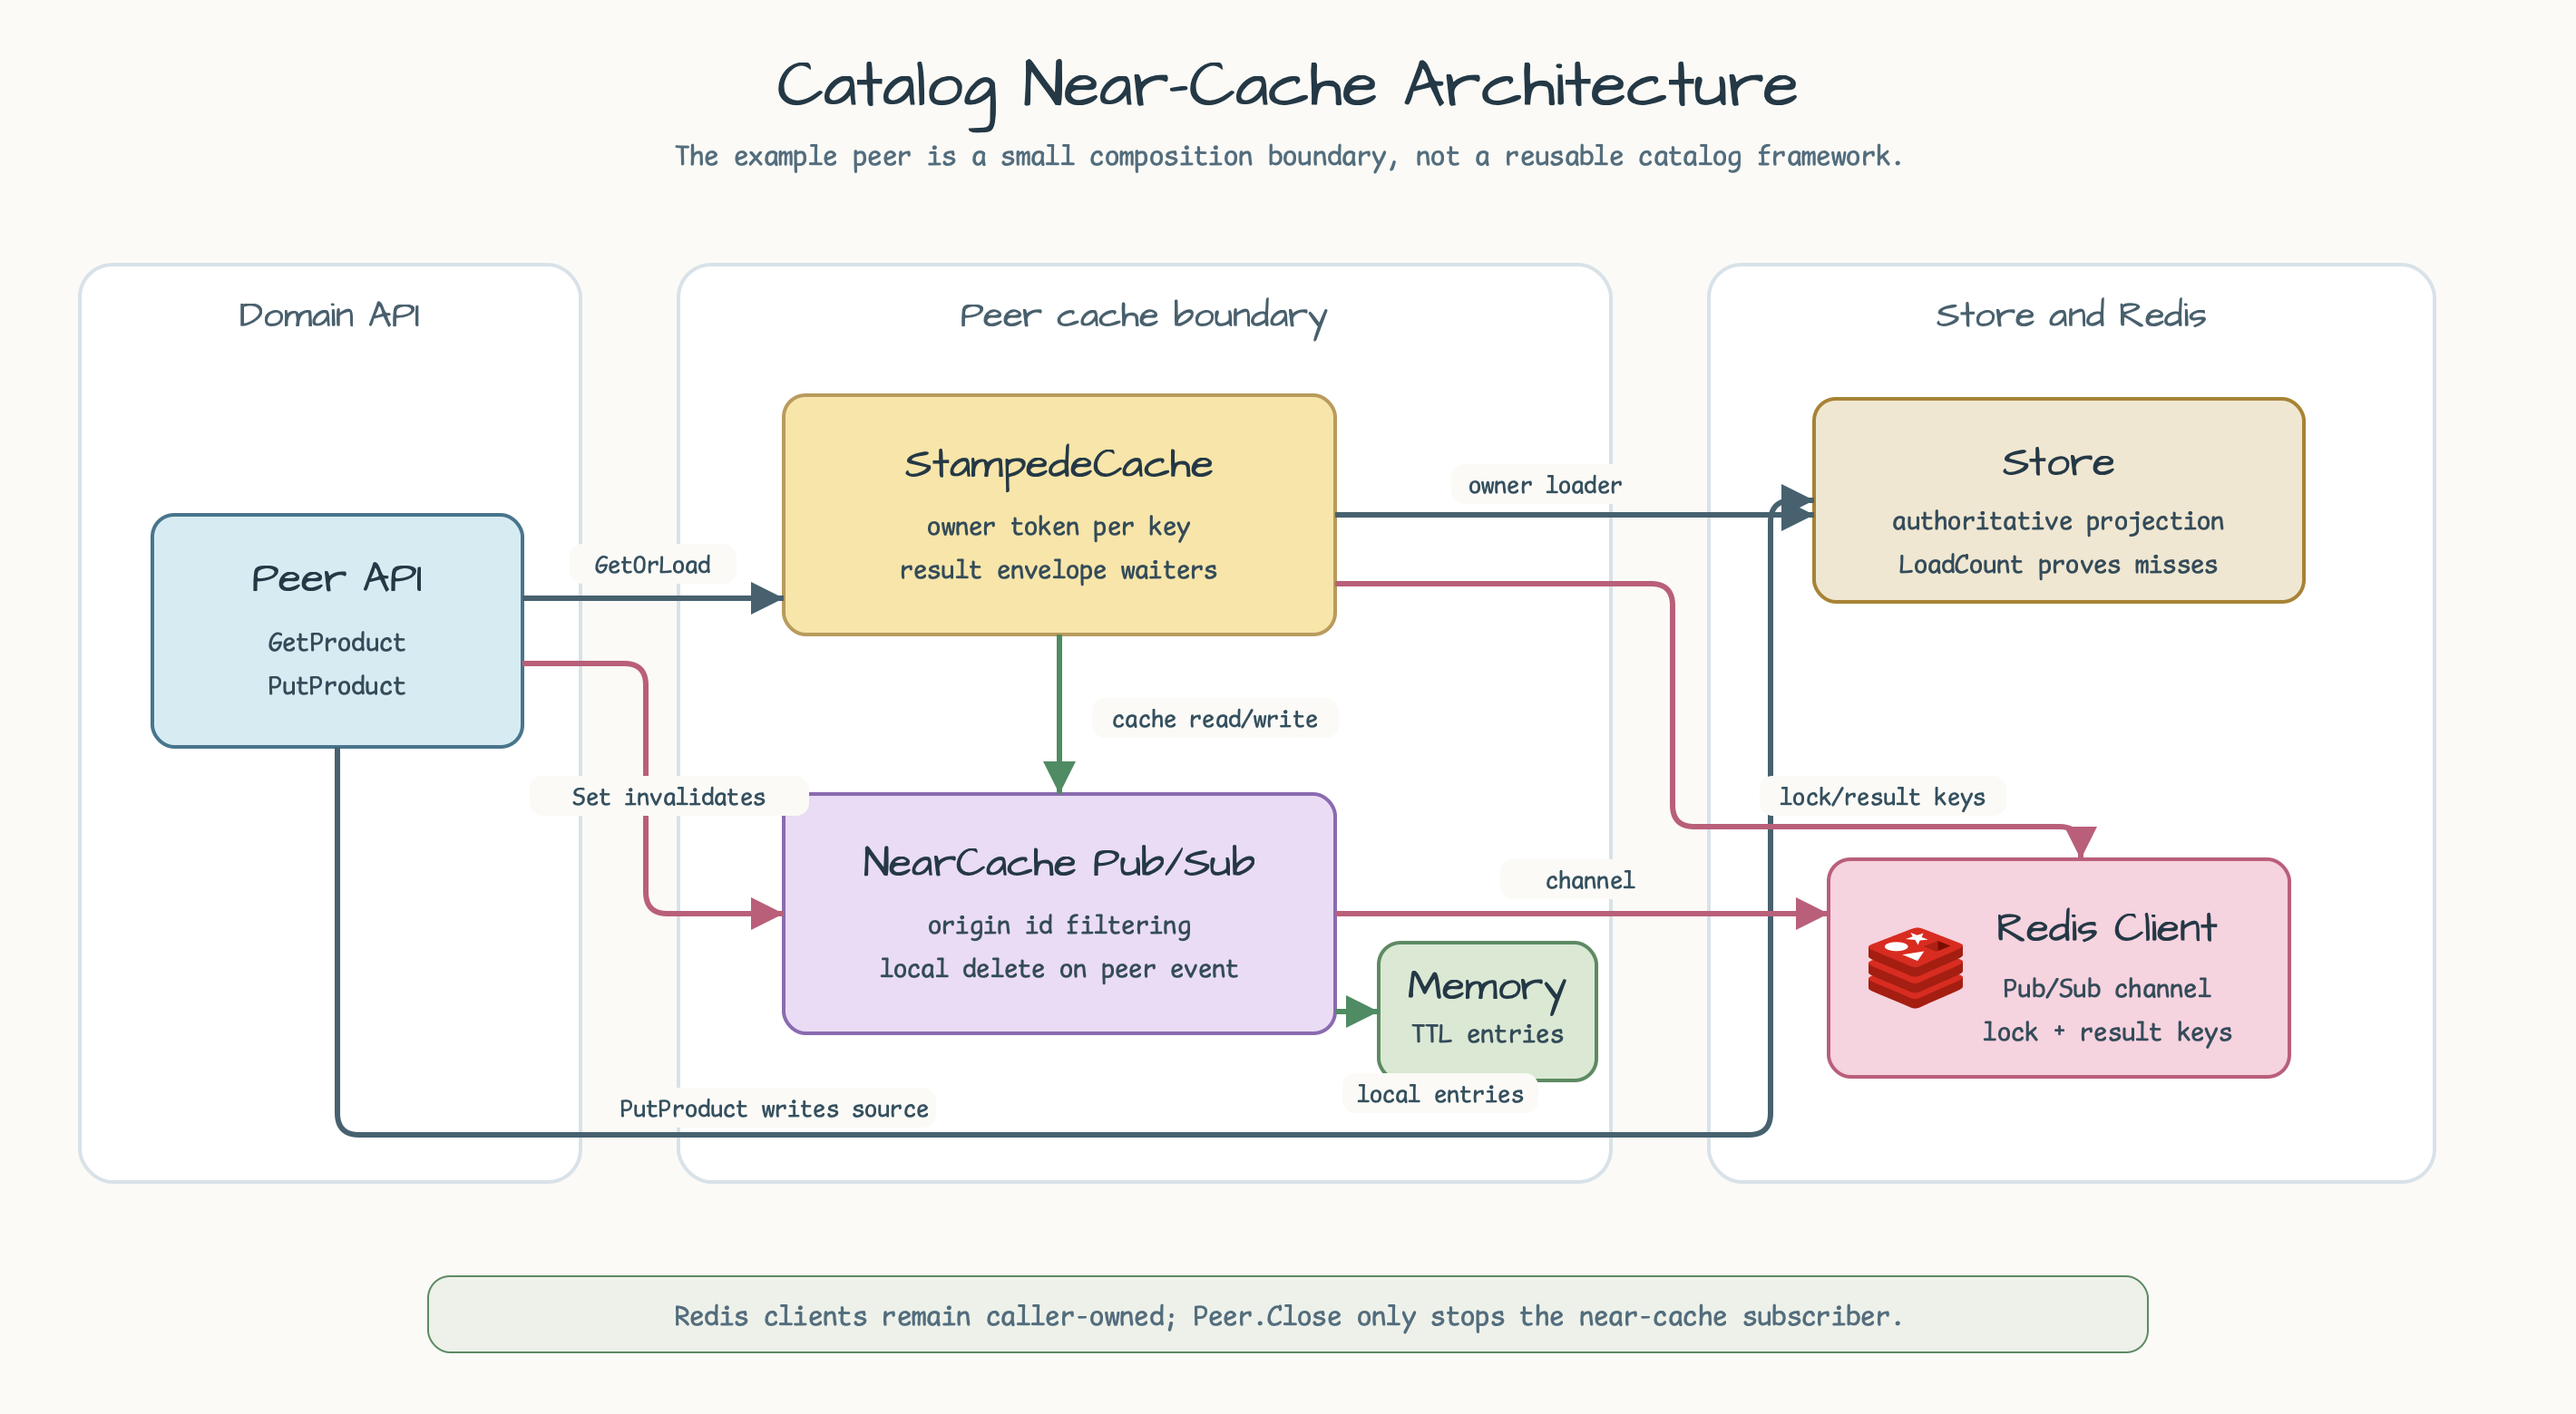
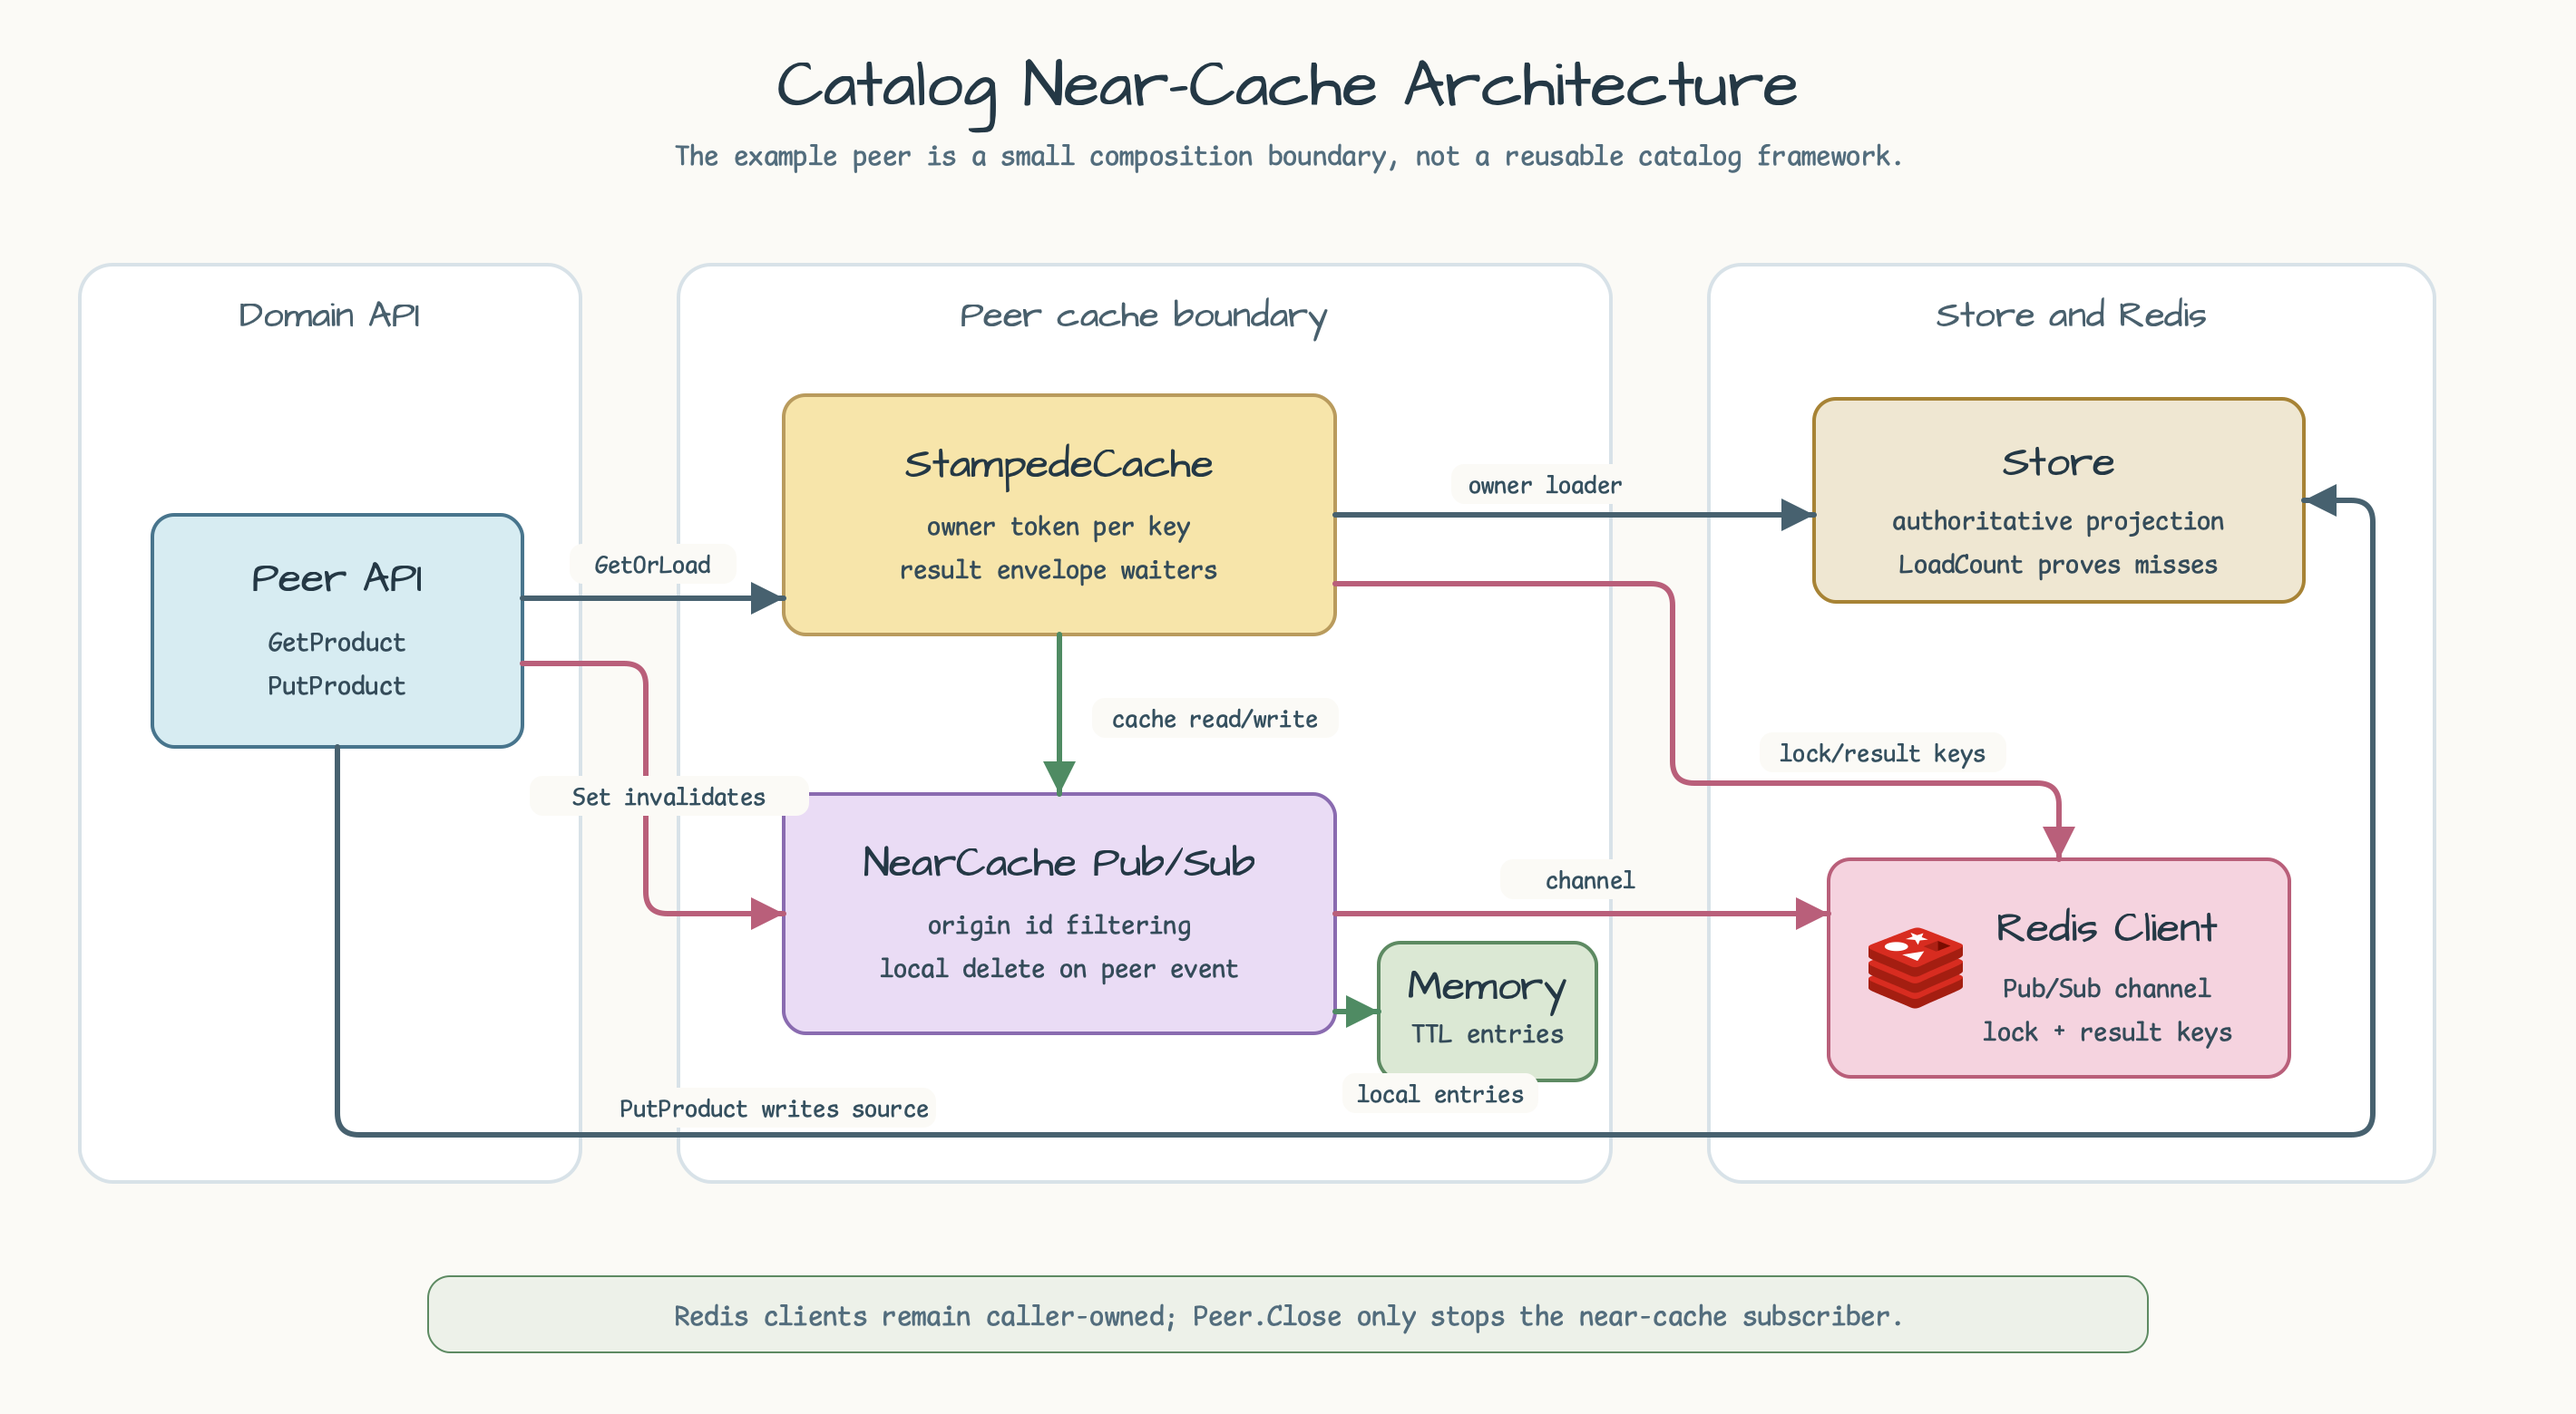
docs: separate catalog near-cache connector lanes
Reroute the catalog near-cache architecture and split scenarios so card entries reserve enough straight segment for rendered arrowheads and avoid unnecessary connector crossings.

Constraint: User visual review rejected avoidable crossings and connector bends that ignored arrowhead size near target cards.

Rejected: Short final bends next to Redis and Store cards | rendered arrowheads crowd the connector and make the endpoint look broken.

Confidence: high

Scope-risk: narrow

Directive: Keep catalog near-cache request, Redis, Store, and result corridors separated; account for marker size before the final bend into a card.

Tested: CairoSVG render of catalog near-cache architecture, cold-miss scenario, and invalidation scenario; visual inspection of rendered PNGs; SVG XML parse; H/V segment crossing sweep; route audit for C, sharp L, and diagonal L commands; Redis icon metadata count; git diff --check.

Not-tested: Full repository test suite; docs-only diagram route fix.

diff --git a/docs/lessons/2026-06-06-catalog-near-cache-redis.md b/docs/lessons/2026-06-06-catalog-near-cache-redis.md
@@ -18,13 +18,17 @@ Issue: `#15 [v0.3.0] Add Redis near-cache and stampede coordination catalog exam
 
 - The README diagrams share English labels across `README.md` and
   `README.ko.md`.
-- Each node-and-connector diagram keeps Graphviz evidence beside the final
-  SVG/PNG pair.
+- Each node-and-connector diagram keeps the final editable SVG and rendered PNG
+  pair as the README asset source.
 - `Architects Daughter` and `Comic Mono` are explicitly loaded in the final SVG
   assets with `@font-face` to avoid renderer font fallback.
 - Visual inspection caught route/card overlap in early scenario and architecture
-  renders; final SVGs were patched directly after Graphviz established the
+  renders; final SVGs were patched directly after layout review established the
   structure.
+- Later visual review caught avoidable connector crossings in the split
+  cold-miss and invalidation scenarios. Separate request and response corridors
+  first, then reserve enough final straight segment before each card for the
+  rendered arrowhead.
 
 ## Verification Notes
 
@@ -46,3 +50,6 @@ sibling worktree. Cleaning the lint cache and rerunning the same command passed.
 - If an example imports a bluetape-go test helper, run `go mod tidy` before
   committing and verify that no extra indirect requirements enter `go.mod`
   unless the issue explicitly permits them.
+- For README SVG routes, run a simple H/V segment crossing sweep before
+  accepting the PNG. If a line can avoid crossing by changing its port or
+  corridor, fix the route instead of treating the crossing as acceptable.
